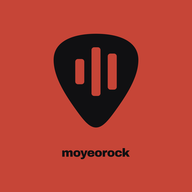
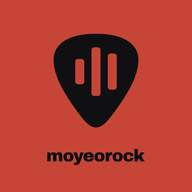
feat: 앱 아이콘 글자를 키워 아래쪽을 채우고 안드로이드용 maskable 분리
moyeorock 글자를 폭 520(1024 기준)으로 키우고 아래쪽(바닥 여백 144)으로 내린다.
글자 끝이 안드로이드 원형 자르기 안전 영역(지름 80%)을 넘으므로, 같은 그림을 80%로 줄인
icon-maskable-512.png를 따로 두고 매니페스트에서 any / maskable을 나눈다.

Changed region(s): [[0.2188, 0.75, 0.75, 0.875]]

diff --git a/index.html b/index.html
@@ -2,8 +2,8 @@
 <html lang="ko">
   <head>
     <meta charset="UTF-8" />
-    <!-- 앱 아이콘: 주홍(#C64537) 바탕 + 검은 피크(크게) + 아래쪽 작은 moyeorock 글자. 원본은 Figma "Brand — 앱 아이콘"(574:23689).
-         홈 화면용 PNG는 모서리를 OS가 깎으니 꽉 찬 정사각형으로 두고, 피크와 글자 모두 마스커블 안전 영역(지름 80%) 안에 있다.
+    <!-- 앱 아이콘: 주홍(#C64537) 바탕 + 검은 피크(크게) + 아래쪽을 채우는 moyeorock 글자. 원본은 Figma "Brand — 앱 아이콘"(574:23689).
+         홈 화면용 PNG는 모서리를 OS가 깎으니 꽉 찬 정사각형으로 두고, 안드로이드 원형 자르기용(maskable)은 같은 그림을 80%로 줄여 안전 영역(지름 80%) 안에 넣은 별도 파일이다.
          브라우저 탭 파비콘은 글자가 안 읽히는 크기라 피크 심볼만 쓴다. -->
     <link rel="icon" type="image/svg+xml" href="/favicon.svg" />
     <link rel="icon" type="image/png" sizes="32x32" href="/favicon-32.png" />
